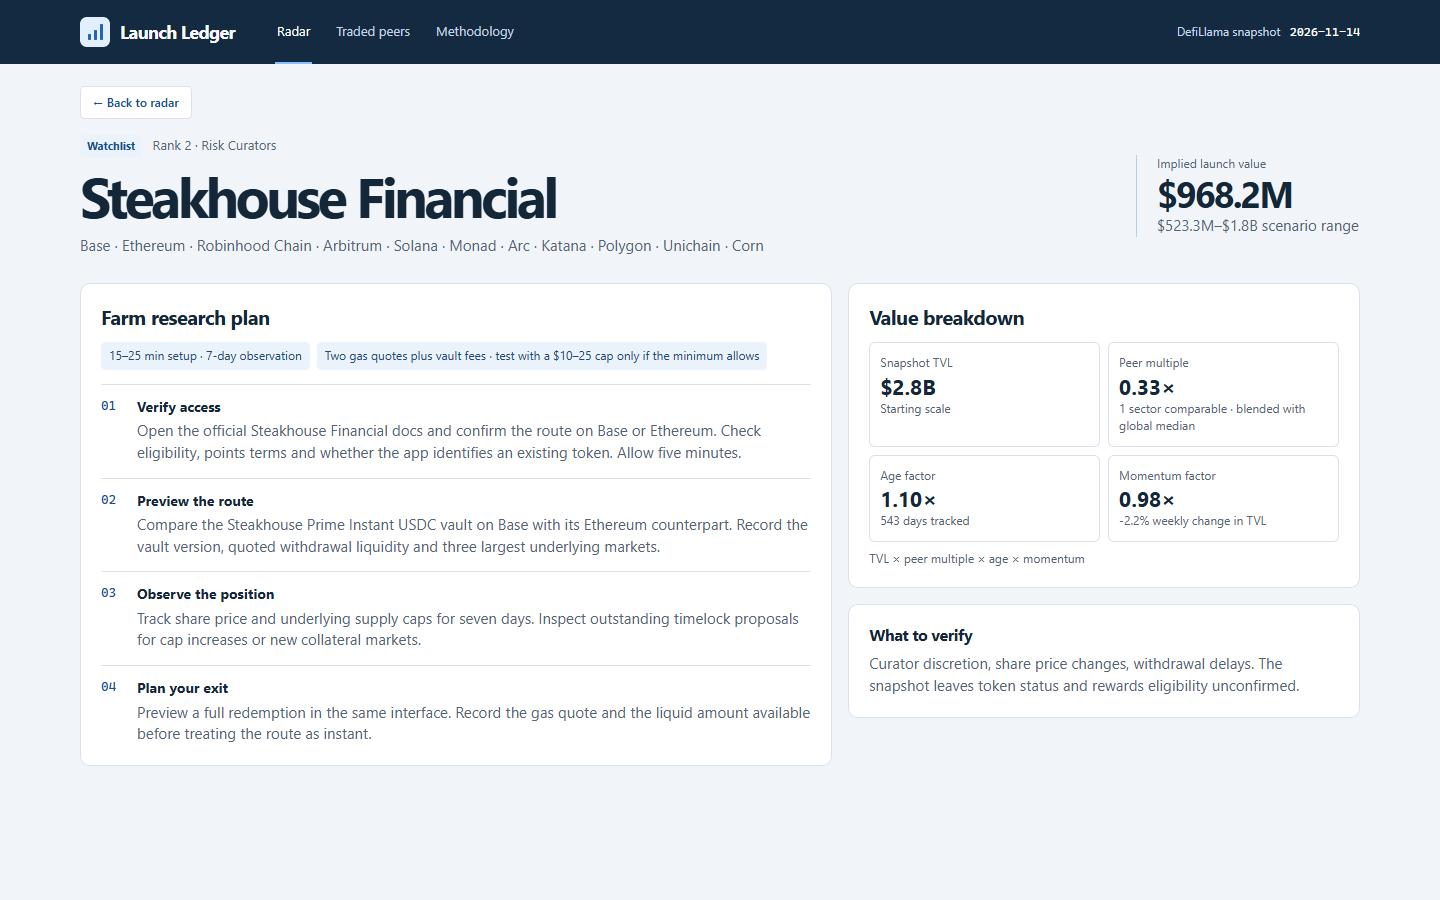
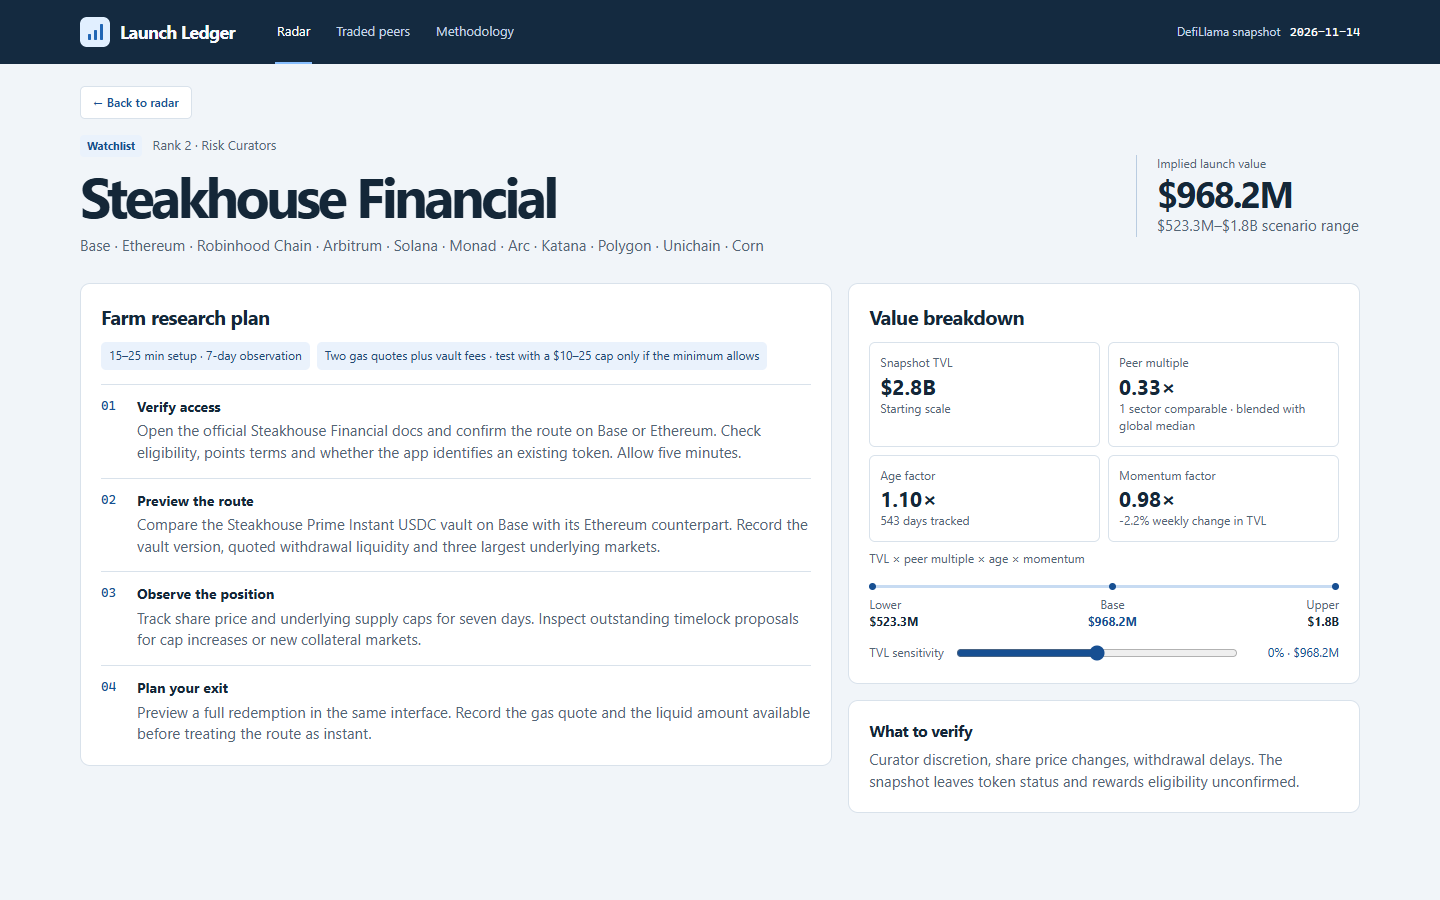
Clarify watchlist coverage and improve protocol research

Changed region(s): [[0.5938, 0.6533, 0.9375, 0.7778], [0.5938, 0.8089, 0.9062, 0.8711]]

diff --git a/dashboard/app.js b/dashboard/app.js
@@ -11,7 +11,10 @@
     const row = Object.fromEntries(globalThis.launchFields.map((field, column) => [field, record[column]]));
     row.category = data.categories[row.category];
     row.chains = row.chains.map(index => data.chains[index]);
+    row.route = data.routes[row.route];
+    row.status = row.status ? 'watchlist' : 'early';
     row.rank = index + 1;
+    row.issuedAsset = Object.hasOwn(data.issuedAssets, row.slug) ? data.issuedAssets[row.slug] : null;
     row.low = Math.max(1, Math.round(row.value / row.band));
     row.high = Math.round(row.value * row.band);
     return row;
@@ -27,15 +30,21 @@
   const money = value => value == null ? '—' : dollars.format(value);
   const growth = value => value == null ? '—' : `${value >= 0 ? '+' : ''}${value.toFixed(1)}%`;
   const color = value => value == null ? '' : value < 0 ? 'negative' : 'positive';
-  const stat = (value, label) => `<div><dt>${label}</dt><dd>${integer.format(value)}</dd></div>`;
+  const stat = (value, label) => `<div><dt>${label}</dt><dd>${value}</dd></div>`;
   const rowBySlug = new Map(data.ranked.map(row => [row.slug, row]));
   const scope = all('[data-scope]');
   const sort = all('[data-sort]');
   const views = ['board', 'detail', 'peers', 'method'];
 
   pick('#date').textContent = data.asOf;
-  pick('#stats').innerHTML = stat(data.scanned, 'Records scanned') + stat(data.ranked.length, 'Ranked candidates') + stat(data.watch, 'Watchlist covered');
-  pick('#peer-rows').innerHTML = data.comparables.map(row => `<tr><td><strong>${safe(row.name)}</strong><small>${safe(row.symbol ?? 'Token record available')}</small></td><td>${safe(row.category)}</td><td class="num">${money(row.tvl)}</td><td class="num">${money(row.mcap)}</td></tr>`).join('');
+  pick('#stats').innerHTML = stat(integer.format(data.scanned), 'Records scanned') +
+    stat(integer.format(data.ranked.length), 'Ranked candidates') +
+    stat(`${data.watchCovered} of ${data.watch}`, 'Official watchlist') +
+    stat(integer.format(data.tradedCount), 'Token-bearing set aside');
+  pick('#board-note').textContent = `All ${data.watch} required slugs included · ${money(data.floor)} watchlist floor · values model a separate token launch`;
+  pick('#peer-note').textContent = `Showing ${data.comparables.length} of ${data.tradedCount} token-bearing protocols, ordered by snapshot market cap. These records sit outside the launch ranking and inform the valuation model.`;
+  pick('#method-note').textContent = `The official watchlist contains ${data.watch} records at a ${money(data.floor)} TVL floor. Its rules exclude bridges and wrapped or staked products such as WBTC and Binance staked ETH. Every required slug is retained. The radar flags known issued assets and displays the largest token-bearing records in Traded peers.`;
+  pick('#peer-rows').innerHTML = data.comparables.map(([name, category, symbol, tvl, mcap]) => `<tr><td><strong>${safe(name)}</strong><small>${safe(symbol ?? 'Token record available')}</small></td><td>${safe(category)}</td><td class="num">${money(tvl)}</td><td class="num">${money(mcap)}</td></tr>`).join('');
 
   function populate(selector, values) {
     const ordered = [...new Set(values)].sort((a, b) => a.localeCompare(b));
@@ -61,12 +70,12 @@
     return state.direction * delta || a.rank - b.rank;
   }
 
-  function rowMarkup(row) {
-    const network = row.chains[0] ?? 'Unspecified network';
+  function rowMarkup(row, selectedNetwork) {
+    const network = selectedNetwork || row.chains[0] || 'Unspecified network';
     return `<tr>
       <td class="rankCol">${String(row.rank).padStart(2, '0')}</td>
       <td><button class="protocol" data-open="${safe(row.slug)}">${safe(row.name)}</button><small>${safe(row.category)} · ${safe(network)}${row.chains.length > 1 ? ' +' + (row.chains.length - 1) : ''}</small></td>
-      <td><span class="pill ${row.status}">${labels[row.status]}</span>${row.review ? '<small class="review">Verify classification</small>' : ''}</td>
+      <td><span class="pill ${row.status}">${labels[row.status]}</span>${row.review ? `<small class="review">${row.issuedAsset ? 'Issued asset recorded' : 'Verify classification'}</small>` : ''}</td>
       <td class="num">${money(row.tvl)}</td>
       <td class="num ${color(row.growth)}">${growth(row.growth)}</td>
       <td class="num estimate"><strong>${money(row.value)}</strong><small>${money(row.low)}–${money(row.high)}</small></td>
@@ -78,15 +87,17 @@
     const text = pick('#query').value.trim().toLocaleLowerCase();
     const sector = pick('#sector').value;
     const network = pick('#network').value;
+    const hideFlags = pick('#hide-flags').checked;
     const shown = data.ranked.filter(row =>
       (state.scope === 'all' || state.scope === row.status) &&
+      (!hideFlags || !row.review) &&
       (!sector || row.category === sector) && (!network || row.chains.includes(network)) &&
       (!text || [row.name, row.slug, row.category, ...row.chains].some(value => value.toLocaleLowerCase().includes(text))));
     shown.sort(compare);
     const pages = Math.max(1, Math.ceil(shown.length / pageSize));
     state.page = Math.min(state.page, pages - 1);
     const start = state.page * pageSize;
-    pick('#rows').innerHTML = shown.length ? shown.slice(start, start + pageSize).map(rowMarkup).join('') :
+    pick('#rows').innerHTML = shown.length ? shown.slice(start, start + pageSize).map(row => rowMarkup(row, network)).join('') :
       '<tr><td colspan="7" class="empty">No matching protocols. Change a filter to widen the search.</td></tr>';
     pick('#results').textContent = shown.length ? `${start + 1}–${Math.min(start + pageSize, shown.length)} of ${shown.length} protocols` : '0 protocols';
     pick('#page').textContent = `${state.page + 1} / ${pages}`;
@@ -112,7 +123,7 @@
       <div class="hero detailHero">
         <div><div class="detailMeta"><span class="pill ${row.status}">${labels[row.status]}</span> Rank ${row.rank} · ${safe(row.category)}</div>
         <h1 id="detail-heading" tabindex="-1">${safe(row.name)}</h1>
-        <p>${safe(row.chains.join(' · ') || 'Network unspecified in the snapshot')}${row.review ? ' · Verify classification before using this route' : ''}</p></div>
+        <p>${safe(row.chains.join(' · ') || 'Network unspecified in the snapshot')}</p></div>
         <div class="detailValue"><small>Implied launch value</small><strong>${money(row.value)}</strong><span>${money(row.low)}–${money(row.high)} scenario range</span></div>
       </div>
       <div class="detailGrid">
@@ -131,13 +142,23 @@
               ${factor('Momentum factor', multiple(row.growthFactor), growth(row.growth) + ' weekly change in TVL')}
             </dl>
             <p class="formula">TVL × peer multiple × age × momentum</p>
+            <dl class="range" aria-label="Valuation scenarios">
+              <div><dt>Lower</dt><dd>${money(row.low)}</dd></div>
+              <div><dt>Base</dt><dd>${money(row.value)}</dd></div>
+              <div><dt>Upper</dt><dd>${money(row.high)}</dd></div>
+            </dl>
+            <label class="sensitivity">TVL sensitivity <input id="sensitivity" type="range" min="-30" max="30" step="5" value="0"><output id="sensitivity-result" for="sensitivity">0% · ${money(row.value)}</output></label>
           </article>
-          <article class="panel risk"><h2>What to verify</h2><p>${safe(plan.risk)}. The snapshot leaves token status and rewards eligibility unconfirmed.</p></article>
+          <article class="panel risk"><h2>What to verify</h2><p>${safe(plan.risk)}. ${row.issuedAsset ? `${safe(row.issuedAsset)} already exists. The scenario values a possible separate protocol token.` : row.review ? 'Verify whether this route depends on an already-traded token.' : 'The snapshot leaves token status and rewards eligibility unconfirmed.'}</p></article>
         </div>
       </div>`;
     pick('#back').addEventListener('click', () => {
       activate('board');
       pick(`[data-open="${CSS.escape(row.slug)}"]`)?.focus();
+    });
+    pick('#sensitivity').addEventListener('input', event => {
+      const change = event.target.valueAsNumber;
+      pick('#sensitivity-result').value = `${change > 0 ? '+' : ''}${change}% · ${money(row.value * (1 + change / 100))}`;
     });
     activate('detail');
     pick('#detail-heading').focus();
@@ -160,9 +181,10 @@
     render();
   }
   pick('#query').addEventListener('input', refreshFilters);
-  for (const field of all('#sector, #network')) field.addEventListener('change', refreshFilters);
+  for (const field of all('#sector, #network, #hide-flags')) field.addEventListener('change', refreshFilters);
   pick('#reset').addEventListener('click', () => {
     for (const field of all('#query, #sector, #network')) field.value = '';
+    pick('#hide-flags').checked = false;
     Object.assign(state, { scope: 'all', sort: 'value', direction: -1, page: 0 });
     render();
   });

diff --git a/dashboard/index.html b/dashboard/index.html
@@ -31,7 +31,7 @@
       </div>
       <section class="boardCard" aria-labelledby="rank-heading">
         <div class="boardTop">
-          <div><h2 id="rank-heading">Ranked protocols</h2><p>USD · implied circulating market cap if a token launches</p></div>
+          <div><h2 id="rank-heading">Ranked protocols</h2><p id="board-note"></p></div>
           <div class="segments" role="group" aria-label="Protocol scope">
             <button data-scope="all" aria-pressed="true">All candidates</button>
             <button data-scope="watchlist" aria-pressed="false">Watchlist</button>
@@ -42,6 +42,7 @@
           <label class="search"><span>Search</span><input id="query" type="search" placeholder="Name, sector or network"></label>
           <label><span>Sector</span><select id="sector"><option value="">All sectors</option></select></label>
           <label><span>Network</span><select id="network"><option value="">All networks</option></select></label>
+          <label class="check"><input id="hide-flags" type="checkbox"> Hide review flags</label>
           <button id="reset" class="quiet">Clear filters</button>
         </div>
         <div class="tableScroll">
@@ -66,7 +67,7 @@
     </section>
     <section id="detail" hidden aria-labelledby="detail-heading"></section>
     <section id="peers" hidden>
-      <div class="hero"><div><h1>Traded peers</h1><p>The largest circulating market caps among token-bearing protocols in the snapshot. These records inform sector multiples and sit outside the launch ranking.</p></div></div>
+      <div class="hero"><div><h1>Traded peers</h1><p id="peer-note"></p></div></div>
       <section class="boardCard tableScroll" aria-label="Traded comparables">
         <table><thead><tr><th scope="col">Protocol</th><th scope="col">Sector</th><th scope="col" class="num">TVL</th><th scope="col" class="num">Market cap</th></tr></thead><tbody id="peer-rows"></tbody></table>
       </section>
@@ -74,7 +75,7 @@
     <section id="method" hidden>
       <div class="hero"><div><h1>Methodology</h1><p>Every estimate uses the same sealed snapshot. Coverage, assumptions and the size of the scenario range are visible for each candidate.</p></div></div>
       <div class="methodGrid">
-        <article class="panel"><h2>Selection</h2><p>All official watchlist records are retained, with derivative-like categories flagged for review. Beyond the watchlist, token identifiers, exchange products, wrappers and obvious versioned routes are screened out. Traded records have their own view.</p></article>
+        <article class="panel"><h2>Selection</h2><p id="method-note"></p></article>
         <article class="panel"><h2>Valuation</h2><p>TVL × peer multiple × age factor × momentum factor. The peer multiple blends the sector median market-cap-to-TVL ratio with the global median using geometric weights. Sector weight is n/(n+8), and individual ratios are clipped to 0.05–8×.</p></article>
         <article class="panel"><h2>Time and momentum</h2><p>The age factor rises from 0.75 to 1.15 with days tracked, using an exponential curve with a 270-day scale. Missing age uses 0.85. The momentum factor exponentiates weekly TVL change clipped at ±25%, with a neutral multiplier when the field is missing.</p></article>
         <article class="panel"><h2>Scenario range</h2><p>The central estimate is divided and multiplied by a 1.5–2.2× band. Missing inputs, fewer than five sector peers or a review flag widen it. The range shows uncertainty in the valuation assumptions. Listing dates measure tracking history, and token metadata can be incomplete.</p></article>

diff --git a/dashboard/app.css b/dashboard/app.css
@@ -58,11 +58,13 @@ nav button:hover, nav button[aria-current] { color: #fff; border-bottom-color: #
 .filters label { min-width: 145px; display: grid; gap: 4px; color: var(--muted); font-size: 12px; }
 .filters .search { min-width: 220px; flex: .6; }
 .filters input, .filters select { color: var(--ink); padding: 7px 9px; width: 100%; min-height: 35px; border-radius: 5px; border: 1px solid #c4d3e2; background: var(--paper); }
+.filters .check { display: flex; align-items: center; min-width: 0; min-height: 35px; gap: 5px; white-space: nowrap; }
+.check input { width: 15px; min-height: auto; accent-color: var(--blue); }
 .quiet, .pages button, .back { border: 1px solid var(--line); border-radius: 5px; background: var(--paper); padding: 7px 12px; color: var(--blue); font-size: 12px; font-weight: 600; white-space: nowrap; }
 .quiet:hover, .pages button:not(:disabled):hover, .back:hover { background: var(--wash); }
 .tableScroll { position: relative; overflow-x: auto; }
 table { width: 100%; border-collapse: collapse; text-align: left; white-space: nowrap; }
-th, td { padding: 8px 12px; border-bottom: 1px solid #e5ebf2; }
+th, td { padding: 7px 12px; border-bottom: 1px solid #e5ebf2; }
 th { background: #f6f8fb; color: #42566b; font-weight: 600; font-size: 12px; border-top: 1px solid var(--line); }
 th button { display: inline-flex; align-items: center; gap: 5px; border: 0; padding: 0; background: transparent; color: inherit; font-weight: inherit; }
 th[aria-sort], th button:hover { color: var(--blue); }
@@ -111,6 +113,18 @@ td.rankCol { font: 13px var(--mono); }
 .factors dt { font-size: 12px; }
 .factors dd { margin: 2px 0; font-weight: 650; font-size: 21px; line-height: 1.15; }
 .formula { font-size: 12px; }
+.range { display: flex; justify-content: space-between; margin-top: 18px; border-top: 3px solid #c7dbf2; font-size: 12px; }
+.range div { position: relative; padding-top: 8px; }
+.range div:nth-child(2) { text-align: center; color: var(--blue); }
+.range div:last-child { text-align: right; }
+.range div::before { position: absolute; top: -5px; left: 0; content: ""; width: 7px; height: 7px; border-radius: 50%; background: var(--blue); }
+.range div:nth-child(2)::before { left: calc(50% - 3px); }
+.range div:last-child::before { left: auto; right: 0; }
+.range dt { color: var(--muted); }
+.range dd { margin: 0; font-weight: 700; }
+.sensitivity { display: grid; grid-template-columns: auto 1fr auto; align-items: center; gap: 10px; margin-top: 12px; font-size: 12px; color: var(--muted); }
+.sensitivity input { min-width: 55px; width: 100%; accent-color: var(--blue); }
+.sensitivity output { min-width: 93px; text-align: right; color: var(--blue); font-variant-numeric: tabular-nums; }
 .risk h2 { font-size: 16px; }
 @media (max-width: 900px) {
   .topbar { gap: 16px; flex-wrap: wrap; padding: 10px 16px 0; }
@@ -129,6 +143,6 @@ td.rankCol { font: 13px var(--mono); }
   .methodGrid { grid-template-columns: 1fr; }
   .boardTop, .filters, .tableFoot { padding-inline: 12px; }
   .segments button { padding-inline: 6px; }
-  .stats { gap: 8px; }
+  .stats { display: grid; grid-template-columns: 1fr 1fr; gap: 8px; }
   .stats div { padding-left: 8px; }
 }

diff --git a/lib/radar.ts b/lib/radar.ts
@@ -26,6 +26,9 @@ const live = (p: Protocol) => Boolean(p.symbol || p.gecko_id || p.mcap_usd);
 const sector = (p: Protocol) => p.category ?? 'Unclassified';
 const nonStandalone = /^(?:bridges?|canonical bridge|cross chain bridge|liquid staking|liquid restaking|staking pool|restaked btc|anchor btc|decentralized btc|stablecoin wrapper|cex)$/i;
 const wrappedName = /\b(?:wrapped|staked|staking|bridged)\b|^(?:Binance|Coinbase|Bybit|Kraken|Bitget|OKX|Bitfinex|Gemini)\b|\s(?:v\d+|\d+\.\d+)$/i;
+// Primary product docs identify these as issued assets. Keep required watchlist
+// records and distinct governance scenarios while surfacing the evidence gap.
+const issuedAssets: Record<string, string> = { usdd: 'USDD stablecoin', onre: 'ONyc receipt asset' };
 
 function median(numbers: number[]): number {
   const sorted = [...numbers].sort((a, b) => a - b);
@@ -78,14 +81,15 @@ export function buildRadar(snapshot: Snapshot) {
     const ageFactor = age === null || !Number.isFinite(age) ? 0.85 : 0.75 + 0.4 * (1 - Math.exp(-age / 270));
     const growthFactor = Math.exp(clamp(p.change_7d ?? 0, -25, 25) / 100);
     const { multiple, peers } = peersFor(sector(p));
-    const review = nonStandalone.test(sector(p)) || wrappedName.test(p.name) || /staking|restaking|wrapper/i.test(sector(p));
+    const issuedAsset = issuedAssets[p.slug] ?? null;
+    const review = Boolean(issuedAsset) || nonStandalone.test(sector(p)) || wrappedName.test(p.name) || /staking|restaking|wrapper/i.test(sector(p));
     const status = watchlist.has(p.slug) ? 'watchlist' : 'early';
     const base = Math.max(1, Math.round(p.tvl_usd * multiple * ageFactor * growthFactor));
     const coverage = (age !== null ? 1 : 0) + (p.change_7d !== null ? 1 : 0) + (peers >= 5 ? 1 : 0);
     const band = review || coverage < 2 ? 2.2 : coverage === 2 ? 1.85 : 1.5;
     return {
       slug: p.slug, name: p.name, category: sector(p), chains: p.chains, tvl: p.tvl_usd,
-      growth: p.change_7d, age, ageFactor, growthFactor, multiple, peers, review, status,
+      growth: p.change_7d, age, ageFactor, growthFactor, multiple, peers, review, issuedAsset, status,
       value: base, band,
       route: routeFor(p),
     };
@@ -93,10 +97,15 @@ export function buildRadar(snapshot: Snapshot) {
 
   scored.sort((a, b) => b.value - a.value || (a.slug < b.slug ? -1 : 1));
   const ranked = scored.map((row, index) => ({ ...row, rank: index + 1 }));
-  const comparables = snapshot.protocols.filter(live)
+  const traded = snapshot.protocols.filter(live);
+  const comparables = traded
     .sort((a, b) => (b.mcap_usd ?? 0) - (a.mcap_usd ?? 0) || (a.slug < b.slug ? -1 : 1))
     .slice(0, 30)
     .map(p => ({ name: p.name, category: sector(p), symbol: p.symbol, tvl: p.tvl_usd, mcap: p.mcap_usd }));
 
-  return { asOf: snapshot.as_of, floor: snapshot.floor_usd, scanned: snapshot.protocols.length, watch: watchlist.size, ranked, comparables };
+  return {
+    asOf: snapshot.as_of, floor: snapshot.floor_usd, scanned: snapshot.protocols.length,
+    watch: watchlist.size, watchCovered: ranked.filter(row => row.status === 'watchlist').length,
+    tradedCount: traded.length, ranked, comparables,
+  };
 }

diff --git a/main.ts b/main.ts
@@ -40,19 +40,26 @@ mkdirSync(output, { recursive: true });
 const dashboard = join(output, 'dashboard');
 cpSync(join(root, 'dashboard'), dashboard, { recursive: true });
 const { ranked, ...metadata } = radar;
-const fields = (Object.keys(ranked[0]) as (keyof (typeof ranked)[number])[]).filter(field => field !== 'rank');
+const fields = (Object.keys(ranked[0]) as (keyof (typeof ranked)[number])[])
+  .filter(field => field !== 'rank' && field !== 'issuedAsset');
 const categories = [...new Set(ranked.map(row => row.category))];
 const chains = [...new Set(ranked.flatMap(row => row.chains))];
+const routes = [...new Set(ranked.map(row => row.route))];
 const categoryIds = new Map(categories.map((name, index) => [name, index]));
 const chainIds = new Map(chains.map((name, index) => [name, index]));
+const issuedAssets = Object.fromEntries(ranked.filter(row => row.issuedAsset).map(row => [row.slug, row.issuedAsset]));
 const asJson = (data: unknown) => JSON.stringify(data, (_, value) =>
-  typeof value === 'number' && !Number.isInteger(value) ? Number(value.toFixed(5)) : value).replace(/</g, '\\u003c');
+  typeof value === 'number' && !Number.isInteger(value) ? Number(value.toFixed(4)) : value).replace(/</g, '\\u003c');
 const records = ranked.map(row => {
-  const packed = { ...row, category: categoryIds.get(row.category), chains: row.chains.map(chain => chainIds.get(chain)) };
+  const packed = {
+    ...row, category: categoryIds.get(row.category), chains: row.chains.map(chain => chainIds.get(chain)),
+    route: routes.indexOf(row.route), status: row.status === 'watchlist' ? 1 : 0,
+  };
   return asJson(fields.map(field => packed[field]));
 });
+const comparables = radar.comparables.map(({ name, category, symbol, tvl, mcap }) => [name, category, symbol, tvl, mcap]);
 writeFileSync(join(dashboard, 'z-data.js'),
-  `globalThis.launchData = ${asJson({ ...metadata, categories, chains })};\n` +
+  `globalThis.launchData = ${asJson({ ...metadata, categories, chains, routes, issuedAssets, comparables })};\n` +
   `globalThis.launchFields = ${asJson(fields)};\n` +
   `globalThis.launchRecords = [\n${records.join(',\n')}\n];\n`);
 writeFileSync(join(output, 'board.json'), JSON.stringify({ as_of: snapshot.as_of, rows }) + '\n');

diff --git a/dashboard/plans.js b/dashboard/plans.js
@@ -95,6 +95,21 @@
       follow: 'Record the share exchange rate and exit asset. Compare both after seven days and check whether a rate update or a queue could change the simulated exit date.',
       exit: 'Preview a full on-chain withdrawal. For a queued route, record the target asset, deadline, relevant fee and the procedure for cancellation.',
     },
+    upshift: {
+      action: 'Find an open Upshift vault in the deployment registry. Record its underlying asset, the curator’s whitelist and whether instant redemption is enabled.',
+      follow: 'Record the previewDeposit and previewRedeem quotes for a paper position. Recheck the share ratio, vault allocations and liquidity buffer after seven days.',
+      exit: 'Compare instant redemption after its fee with requesting an epoch redemption. Record the claimable epoch and count the request and claim transactions separately.',
+    },
+    usdd: {
+      action: 'Use the USDD collateral dashboard to compare available vaults on Tron. Record the stability fee, collateral threshold and whether the asset you are testing is the already-issued USDD stablecoin.',
+      follow: 'Track the USDD peg and collateral ratio in a paper vault. Simulate a 20% drop in collateral value and check the remaining liquidation buffer.',
+      exit: 'Model repaying minted USDD plus accrued stability fees and reclaiming all collateral. Add transaction fees and a potentially adverse conversion spread.',
+    },
+    onre: {
+      action: 'Read the ONyc investor and redemption terms. Separate the existing tokenized reinsurance exposure from a possible governance launch.',
+      follow: 'Record ONyc NAV and a same-size secondary quote on Solana across seven days. Compare the spread and available depth with the primary redemption terms.',
+      exit: 'Check qualification before modeling primary redemption and record the published wait. If you can use only the secondary route, simulate a full-size quote without trading.',
+    },
   };
 
   function plan(row) {

diff --git a/README.md b/README.md
@@ -20,7 +20,7 @@ Open `out/dashboard/index.html` directly in a browser. The output includes the r
 
 Each central estimate multiplies TVL by a peer multiple, a tracking-age factor, and a bounded seven-day TVL momentum factor. The peer multiple blends sector and global medians to reduce the influence of sparse sectors. Traded peers have a separate view. The range widens when evidence is thin or classification needs review. These estimates describe a hypothetical circulating market cap if a token launches.
 
-The farm plans use sector-specific research steps and draw on product documentation for the leading vault routes. [Sentora vault overview](https://www.sec.gov/files/ctf-memo-sentora-081026.pdf) · [Steakhouse Prime Instant](https://www.steakhouse.financial/docs/products/vault-products/current/prime-instant) · [Gauntlet vaults on Morpho](https://app.morpho.org/curator/gauntlet) · [Veda vault components](https://docs.veda.tech/architecture-and-flow-of-funds/core-components)
+The farm plans use sector-specific research steps and draw on primary product documentation. [Sentora vault overview](https://www.sec.gov/files/ctf-memo-sentora-081026.pdf) · [Steakhouse Prime Instant](https://www.steakhouse.financial/docs/products/vault-products/current/prime-instant) · [Gauntlet vaults on Morpho](https://app.morpho.org/curator/gauntlet) · [Veda vault components](https://docs.veda.tech/architecture-and-flow-of-funds/core-components) · [Upshift redemption paths](https://docs.upshift.finance/introduction/integration-guide) · [USDD user guide](https://docs.usdd.io/user-guide/getting-started) · [OnRe and ONyc](https://docs.onre.finance/introduction/onre-tokenized-reinsurance-onyc)
 
 ---
 
